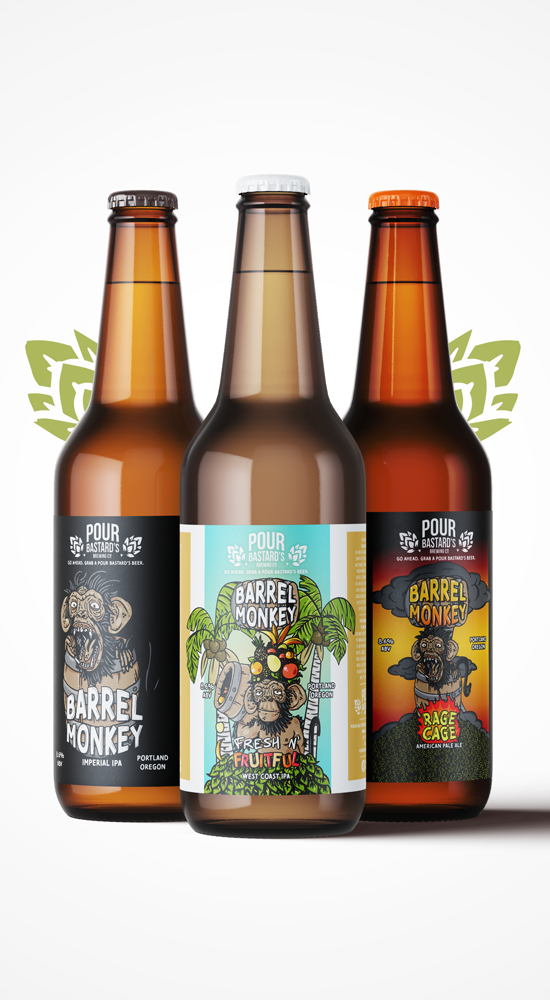
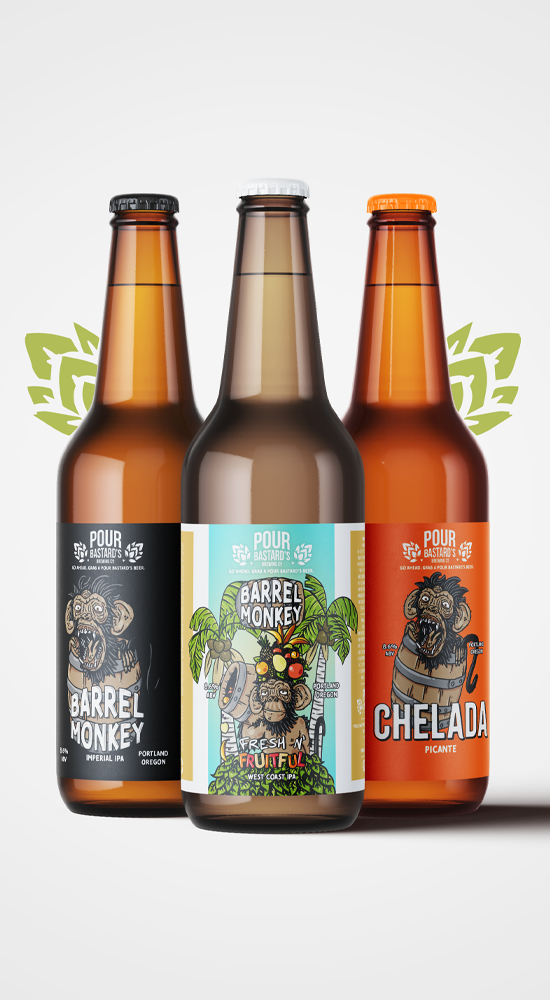
added cohesive chelada pics

diff --git a/homework/zynth/style.css b/homework/zynth/style.css
@@ -51,10 +51,10 @@ justify-content: center;
 #main p{
   display: flex;
  
-
+color: #fff;
   text-align: center;
   font-size:21.4356px ;
-  font-family: gotham,  Arial, Helvetica, sans-serif, system-ui, -apple-system, BlinkMacSystemFont, 'Segoe UI', Roboto, Oxygen, Ubuntu, Cantarell, 'Open Sans', 'Helvetica Neue', sans-serif;;
+  font-family: gotham,  Arial, Helvetica, sans-serif, system-ui, -apple-system, BlinkMacSystemFont, 'Segoe UI', Roboto, Oxygen, Ubuntu, Cantarell, 'Open Sans', 'Helvetica Neue', sans-serif;
 
 margin: auto;
 width: 50%;
@@ -69,8 +69,8 @@ width: 50%;
 
 body{
  
-  font-family: Arial, Helvetica, sans-serif, system-ui, -apple-system, BlinkMacSystemFont, 'Segoe UI', Roboto, Oxygen, Ubuntu, Cantarell, 'Open Sans', 'Helvetica Neue', sans-serif;
-  margin: 0;
+  font-family: gothamlight, Arial, Helvetica, sans-serif, system-ui, -apple-system, BlinkMacSystemFont, 'Segoe UI', Roboto, Oxygen, Ubuntu, Cantarell, 'Open Sans', 'Helvetica Neue', sans-serif;
+  
   width: 100%;
   background-color: #090909
 }
@@ -79,6 +79,31 @@ body{
 * {
   box-sizing: border-box;
  
+}
+.descriptionsection{
+  padding-top: 24px;
+  padding-bottom: 48px;
+  text-align: center;
+  width: 100vw;
+  color: #fff;
+  font-size:21.4356px ;
+  background-color: #ff7200;
+}
+
+.descriptionsection a{
+  display: flex;
+  text-align: center;
+  justify-content: center;
+  align-items: center;
+  font-size:21.4356px ;
+  color: #ff7200;
+  
+  background-color: #dfdfdf;
+  width: 10vw;
+}
+.descriptionsection a:hover{
+  background-color: #fff;
+  
 }
 header {
   

diff --git a/homework/zynth/pourbastards.html b/homework/zynth/pourbastards.html
@@ -36,8 +36,11 @@
   <div class="image"><img src="images/fullfruitbottles.png" alt=""></div>
   <div class="image"><img src="images/fullcheladabottles.png" alt=""></div>
   <div class="image"><img src="images/fullallbottles.png" alt=""></div>
-</div>
 
+<div class="descriptionsection"><p>This Project brief was to design a label for a bottled drink, and a brand identity for the company that manufactures it. Three Flavors were designed along with unique label contents for each.</p>
+  <a href="https://imzynth.github.io/homework/pour-bastard-main/">View Website</a>
+</div>
+</div>
 
 
  <footer>

diff --git a/homework/pour-bastard-main/beerpage.html b/homework/pour-bastard-main/beerpage.html
@@ -45,7 +45,7 @@
         <p>$16.00</p>
     </div>
     <div class="card">
-        <h2>RAGE CAGE</h2>
+        <h2>CHELADA PICANTE</h2>
    <img src="images/og_v1.png" alt="Monkey in the jungle"></a>
    <p>Six-Pack [ bottles ]</p>
    <p>$16.00</p>
